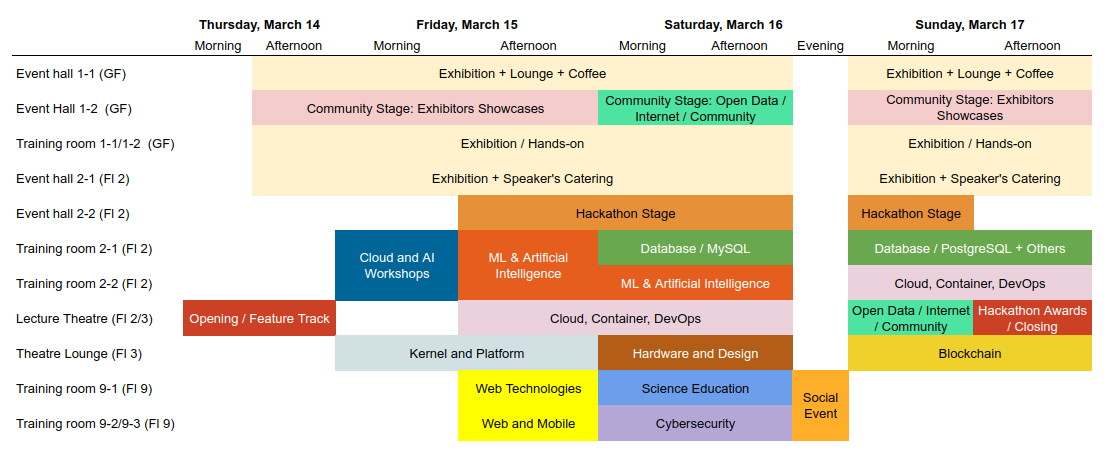
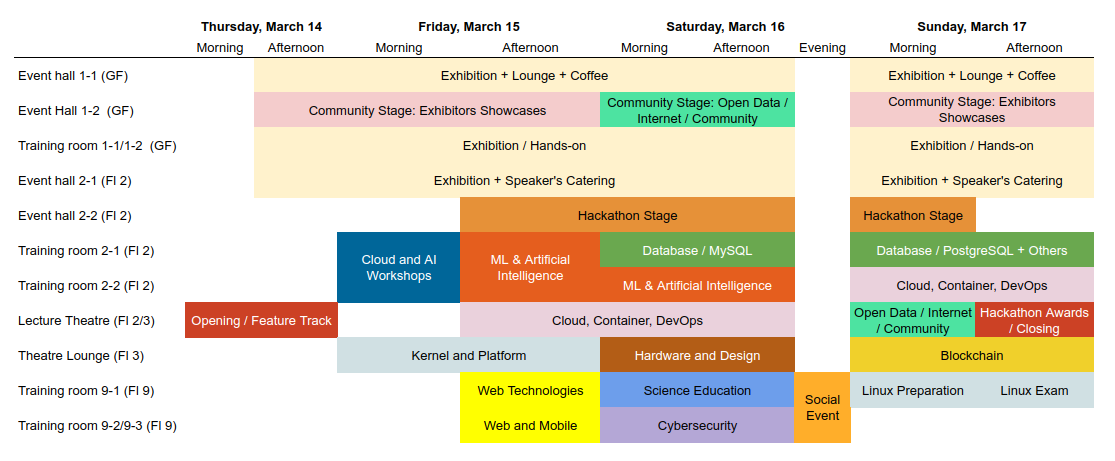
speakers

diff --git a/RoomVisual.html b/RoomVisual.html
@@ -1,7 +1,6 @@
 <meta http-equiv="Content-Type" content="text/html; charset=utf-8"><link type="text/css" rel="stylesheet" href="resources/sheet.css" >
-<style type="text/css">.ritz .waffle a { color: inherit; }.ritz .waffle .s10{background-color:#f4cccc;text-align:center;color:#000000;font-family:'Arial';font-size:10pt;vertical-align:bottom;white-space:normal;overflow:hidden;word-wrap:break-word;direction:ltr;padding:2px 3px 2px 3px;}.ritz .waffle .s14{background-color:#6aa84f;text-align:center;color:#ffffff;font-family:'Arial';font-size:10pt;vertical-align:middle;white-space:normal;overflow:hidden;word-wrap:break-word;direction:ltr;padding:2px 3px 2px 3px;}.ritz .waffle .s5{background-color:#ffffff;text-align:center;color:#000000;font-family:'Arial';font-size:10pt;vertical-align:middle;white-space:normal;overflow:hidden;word-wrap:break-word;direction:ltr;padding:2px 3px 2px 3px;}.ritz .waffle .s4{background-color:#ffffff;text-align:left;color:#000000;font-family:'Arial';font-size:10pt;vertical-align:middle;white-space:nowrap;direction:ltr;padding:2px 3px 2px 3px;}.ritz .waffle .s13{background-color:#e55e1e;text-align:center;color:#ffffff;font-family:'Arial';font-size:10pt;vertical-align:middle;white-space:normal;overflow:hidden;word-wrap:break-word;direction:ltr;padding:2px 3px 2px 3px;}.ritz .waffle .s7{background-color:#ffffff;text-align:left;color:#000000;font-family:'Arial';font-size:10pt;vertical-align:middle;white-space:normal;overflow:hidden;word-wrap:break-word;direction:ltr;padding:2px 3px 2px 3px;}.ritz .waffle .s9{background-color:#4de3a1;text-align:center;color:#000000;font-family:'Arial';font-size:10pt;vertical-align:middle;white-space:normal;overflow:hidden;word-wrap:break-word;direction:ltr;padding:2px 3px 2px 3px;}.ritz .waffle .s16{background-color:#cc4125;text-align:center;color:#ffffff;font-family:'Arial';font-size:10pt;vertical-align:middle;white-space:normal;overflow:hidden;word-wrap:break-word;direction:ltr;padding:2px 3px 2px 3px;}.ritz .waffle .s12{background-color:#6d9eeb;text-align:center;color:#000000;font-family:'Arial';font-size:10pt;vertical-align:middle;white-space:normal;overflow:hidden;word-wrap:break-word;direction:ltr;padding:2px 3px 2px 3px;}.ritz .waffle .s19{background-color:#b35d16;text-align:center;color:#ffffff;font-family:'Arial';font-size:10pt;vertical-align:middle;white-space:normal;overflow:hidden;word-wrap:break-word;direction:ltr;padding:2px 3px 2px 3px;}.ritz .waffle .s11{background-color:#e69138;text-align:center;color:#000000;font-family:'Arial';font-size:10pt;vertical-align:middle;white-space:normal;overflow:hidden;word-wrap:break-word;direction:ltr;padding:2px 3px 2px 3px;}.ritz .waffle .s15{background-color:#ead1dc;text-align:center;color:#000000;font-family:'Arial';font-size:10pt;vertical-align:middle;white-space:normal;overflow:hidden;word-wrap:break-word;direction:ltr;padding:2px 3px 2px 3px;}.ritz .waffle .s21{background-color:#ffff00;text-align:center;color:#000000;font-family:'Arial';font-size:10pt;vertical-align:middle;white-space:normal;overflow:hidden;word-wrap:break-word;direction:ltr;padding:2px 3px 2px 3px;}.ritz .waffle .s6{background-color:#fff2cc;text-align:center;color:#000000;font-family:'Arial';font-size:10pt;vertical-align:middle;white-space:normal;overflow:hidden;word-wrap:break-word;direction:ltr;padding:2px 3px 2px 3px;}.ritz .waffle .s24{background-color:#b4a7d6;text-align:center;color:#000000;font-family:'Arial';font-size:10pt;vertical-align:middle;white-space:normal;overflow:hidden;word-wrap:break-word;direction:ltr;padding:2px 3px 2px 3px;}.ritz .waffle .s20{background-color:#f0d02b;text-align:center;color:#000000;font-family:'Arial';font-size:10pt;vertical-align:middle;white-space:normal;overflow:hidden;word-wrap:break-word;direction:ltr;padding:2px 3px 2px 3px;}.ritz .waffle .s0{background-color:#ffffff;text-align:left;font-weight:bold;color:#000000;font-family:'Arial';font-size:10pt;vertical-align:middle;white-space:normal;overflow:hidden;word-wrap:break-word;direction:ltr;padding:2px 3px 2px 3px;}.ritz .waffle .s8{background-color:#f4cccc;text-align:center;color:#000000;font-family:'Arial';font-size:10pt;vertical-align:middle;white-space:normal;overflow:hidden;word-wrap:break-word;direction:ltr;padding:2px 3px 2px 3px;}.ritz .waffle .s17{background-color:#ffffff;text-align:center;color:#ffffff;font-family:'Arial';font-size:10pt;vertical-align:middle;white-space:normal;overflow:hidden;word-wrap:break-word;direction:ltr;padding:2px 3px 2px 3px;}.ritz .waffle .s3{border-bottom:1px SOLID #000000;background-color:#ffffff;text-align:center;color:#000000;font-family:'Arial';font-size:10pt;vertical-align:middle;white-space:normal;overflow:hidden;word-wrap:break-word;direction:ltr;padding:2px 3px 2px 3px;}.ritz .waffle .s2{border-bottom:1px SOLID #000000;background-color:#ffffff;text-align:left;color:#000000;font-family:'Arial';font-size:10pt;vertical-align:middle;white-space:normal;overflow:hidden;word-wrap:break-word;direction:ltr;padding:2px 3px 2px 3px;}.ritz .waffle .s18{background-color:#d0e0e3;text-align:center;color:#000000;font-family:'Arial';font-size:10pt;vertical-align:middle;white-space:normal;overflow:hidden;word-wrap:break-word;direction:ltr;padding:2px 3px 2px 3px;}.ritz .waffle .s1{background-color:#ffffff;text-align:center;font-weight:bold;color:#000000;font-family:'Arial';font-size:10pt;vertical-align:middle;white-space:normal;overflow:hidden;word-wrap:break-word;direction:ltr;padding:2px 3px 2px 3px;}.ritz .waffle .s22{background-color:#6d9eeb;text-align:center;color:#000000;font-family:'Arial';font-size:10pt;vertical-align:middle;white-space:nowrap;direction:ltr;padding:2px 3px 2px 3px;}.ritz .waffle .s23{background-color:#ffae2a;text-align:center;color:#000000;font-family:'Arial';font-size:10pt;vertical-align:middle;white-space:normal;overflow:hidden;word-wrap:break-word;direction:ltr;padding:2px 3px 2px 3px;}</style><div class="ritz grid-container" dir="ltr"><table class="waffle no-grid" cellspacing="0" cellpadding="0"><thead>
-</thead><tbody><tr style='height:20px;'><th id="1188452059R0" style="height: 20px;" class="row-headers-background"><div class="row-header-wrapper" style="line-height: 20px;">1</div></th><td class="s0" dir="ltr"></td><td class="s1" dir="ltr" colspan="2">Thursday, March 14</td><td class="s1" dir="ltr" colspan="2">Friday, March 15</td><td class="s1" dir="ltr" colspan="3">Saturday, March 16</td><td class="s1" dir="ltr" colspan="2">Sunday, March 17</td></tr><tr style='height:20px;'><th id="1188452059R1" style="height: 20px;" class="row-headers-background"><div class="row-header-wrapper" style="line-height: 20px;">2</div></th><td class="s2" dir="ltr"></td><td class="s3" dir="ltr">Morning</td><td class="s3" dir="ltr">Afternoon</td><td class="s3" dir="ltr">Morning</td><td class="s3" dir="ltr">Afternoon</td><td class="s3" dir="ltr">Morning</td><td class="s3" dir="ltr">Afternoon</td><td class="s3" dir="ltr">Evening</td><td class="s3" dir="ltr">Morning</td><td class="s3" dir="ltr">Afternoon</td></tr><tr style='height:34px;'><th id="1188452059R2" style="height: 34px;" class="row-headers-background"><div class="row-header-wrapper" style="line-height: 34px;">3</div></th><td class="s4" dir="ltr">Event hall 1-1 (GF)</td><td class="s5" dir="ltr"></td><td class="s6" dir="ltr" colspan="5">Exhibition + Lounge + Coffee</td><td class="s5" dir="ltr"></td><td class="s6" dir="ltr" colspan="2">Exhibition + Lounge + Coffee</td></tr><tr style='height:34px;'><th id="1188452059R3" style="height: 34px;" class="row-headers-background"><div class="row-header-wrapper" style="line-height: 34px;">4</div></th><td class="s7" dir="ltr">Event Hall 1-2  (GF)</td><td class="s5" dir="ltr"></td><td class="s8" dir="ltr" colspan="3">Community Stage: Exhibitors Showcases</td><td class="s9" dir="ltr" colspan="2">Community Stage: Open Data / Internet / Community</td><td class="s5" dir="ltr"></td><td class="s10" colspan="2">Community Stage: Exhibitors Showcases</td></tr><tr style='height:34px;'><th id="1188452059R4" style="height: 34px;" class="row-headers-background"><div class="row-header-wrapper" style="line-height: 34px;">5</div></th><td class="s7" dir="ltr">Training room 1-1/1-2  (GF)</td><td class="s4"></td><td class="s6" dir="ltr" colspan="5">Exhibition / Hands-on</td><td class="s5" dir="ltr"></td><td class="s6" dir="ltr" colspan="2">Exhibition / Hands-on</td></tr><tr style='height:34px;'><th id="1188452059R5" style="height: 34px;" class="row-headers-background"><div class="row-header-wrapper" style="line-height: 34px;">6</div></th><td class="s7" dir="ltr">Event hall 2-1 (Fl 2)</td><td class="s4"></td><td class="s6" dir="ltr" colspan="5">Exhibition + Speaker&#39;s Catering</td><td class="s5" dir="ltr"></td><td class="s6" dir="ltr" colspan="2">Exhibition + Speaker&#39;s Catering</td></tr><tr style='height:34px;'><th id="1188452059R6" style="height: 34px;" class="row-headers-background"><div class="row-header-wrapper" style="line-height: 34px;">7</div></th><td class="s7" dir="ltr">Event hall 2-2 (Fl 2)</td><td class="s4"></td><td class="s5" dir="ltr"></td><td class="s5" dir="ltr"></td><td class="s11" dir="ltr" colspan="3">Hackathon Stage</td><td class="s5" dir="ltr"></td><td class="s11" dir="ltr">Hackathon Stage</td><td class="s4"></td></tr><tr style='height:34px;'><th id="1188452059R7" style="height: 34px;" class="row-headers-background"><div class="row-header-wrapper" style="line-height: 34px;">8</div></th><td class="s7" dir="ltr">Training room 2-1 (Fl 2)</td><td class="s5"></td><td class="s5"></td><td class="s12" dir="ltr" rowspan="2">Cloud and AI Workshops</td><td class="s13" dir="ltr" rowspan="2">ML &amp; Artificial Intelligence</td><td class="s14" colspan="2">Database / MySQL</td><td class="s5" dir="ltr"></td><td class="s14" dir="ltr" colspan="2">Database / PostgreSQL + Others</td></tr><tr style='height:34px;'><th id="1188452059R8" style="height: 34px;" class="row-headers-background"><div class="row-header-wrapper" style="line-height: 34px;">9</div></th><td class="s7" dir="ltr">Training room 2-2 (Fl 2)</td><td class="s5"></td><td class="s5"></td><td class="s13" dir="ltr" colspan="2">ML &amp; Artificial Intelligence - Workshops</td><td class="s5" dir="ltr"></td><td class="s15" colspan="2">Cloud, Container, DevOps</td></tr><tr style='height:34px;'><th id="1188452059R9" style="height: 34px;" class="row-headers-background"><div class="row-header-wrapper" style="line-height: 34px;">10</div></th><td class="s7" dir="ltr">Lecture Theatre (Fl 2/3)</td><td class="s16" dir="ltr" colspan="2">Opening / Feature Track</td><td class="s5" dir="ltr"></td><td class="s15" colspan="3">Cloud, Container, DevOps</td><td class="s17" dir="ltr"></td><td class="s9" dir="ltr">Open Data / Internet / Community</td><td class="s16" dir="ltr">Hackathon Awards / Closing</td></tr><tr style='height:34px;'><th id="1188452059R10" style="height: 34px;" class="row-headers-background"><div class="row-header-wrapper" style="line-height: 34px;">11</div></th><td class="s7" dir="ltr">Theatre Lounge (Fl 3)</td><td class="s5"></td><td class="s5"></td><td class="s18" colspan="2">Kernel and Platform</td><td class="s19" dir="ltr" colspan="2">Hardware and Design</td><td class="s5"></td><td class="s20" dir="ltr" colspan="2">Blockchain</td></tr><tr style='height:34px;'><th id="1188452059R11" style="height: 34px;" class="row-headers-background"><div class="row-header-wrapper" style="line-height: 34px;">12</div></th><td class="s7" dir="ltr">Training room 9-1 (Fl 9)</td><td class="s5"></td><td class="s5"></td><td class="s4"></td><td class="s21">Web and Mobile</td><td class="s22" dir="ltr" colspan="2">Science Education</td><td class="s23" dir="ltr" rowspan="2">Social Event</td><td class="s4"></td><td class="s5"></td></tr><tr style='height:34px;'><th id="1188452059R12" style="height: 34px;" class="row-headers-background"><div class="row-header-wrapper" style="line-height: 34px;">13</div></th><td class="s7" dir="ltr">Training room 9-2/9-3 (Fl 9)</td><td class="s5"></td><td class="s5"></td><td class="s5"></td><td class="s21">Web and Mobile</td><td class="s24" colspan="2">Cybersecurity</td><td class="s4"></td><td class="s4"></td></tr></tbody></table></div>
-<script type='text/javascript' nonce='9uH8k8z4iOCtXarD0G72aQ'>
+<style type="text/css">.ritz .waffle a { color: inherit; }.ritz .waffle .s10{background-color:#f4cccc;text-align:center;color:#000000;font-family:'Arial';font-size:10pt;vertical-align:bottom;white-space:normal;overflow:hidden;word-wrap:break-word;direction:ltr;padding:2px 3px 2px 3px;}.ritz .waffle .s14{background-color:#6aa84f;text-align:center;color:#ffffff;font-family:'Arial';font-size:10pt;vertical-align:middle;white-space:normal;overflow:hidden;word-wrap:break-word;direction:ltr;padding:2px 3px 2px 3px;}.ritz .waffle .s6{background-color:#ffffff;text-align:center;color:#000000;font-family:'Arial';font-size:10pt;vertical-align:middle;white-space:normal;overflow:hidden;word-wrap:break-word;direction:ltr;padding:2px 3px 2px 3px;}.ritz .waffle .s5{background-color:#ffffff;text-align:left;color:#000000;font-family:'Arial';font-size:10pt;vertical-align:middle;white-space:nowrap;direction:ltr;padding:2px 3px 2px 3px;}.ritz .waffle .s13{background-color:#e55e1e;text-align:center;color:#ffffff;font-family:'Arial';font-size:10pt;vertical-align:middle;white-space:normal;overflow:hidden;word-wrap:break-word;direction:ltr;padding:2px 3px 2px 3px;}.ritz .waffle .s2{background-color:#ffffff;text-align:left;color:#000000;font-family:'Arial';font-size:10pt;vertical-align:middle;white-space:normal;overflow:hidden;word-wrap:break-word;direction:ltr;padding:2px 3px 2px 3px;}.ritz .waffle .s9{background-color:#4de3a1;text-align:center;color:#000000;font-family:'Arial';font-size:10pt;vertical-align:middle;white-space:normal;overflow:hidden;word-wrap:break-word;direction:ltr;padding:2px 3px 2px 3px;}.ritz .waffle .s16{background-color:#cc4125;text-align:center;color:#ffffff;font-family:'Arial';font-size:10pt;vertical-align:middle;white-space:normal;overflow:hidden;word-wrap:break-word;direction:ltr;padding:2px 3px 2px 3px;}.ritz .waffle .s24{background-color:#d0e0e3;text-align:center;color:#000000;font-family:'Arial';font-size:10pt;vertical-align:middle;white-space:nowrap;direction:ltr;padding:2px 3px 2px 3px;}.ritz .waffle .s19{background-color:#b35d16;text-align:center;color:#ffffff;font-family:'Arial';font-size:10pt;vertical-align:middle;white-space:normal;overflow:hidden;word-wrap:break-word;direction:ltr;padding:2px 3px 2px 3px;}.ritz .waffle .s11{background-color:#e69138;text-align:center;color:#000000;font-family:'Arial';font-size:10pt;vertical-align:middle;white-space:normal;overflow:hidden;word-wrap:break-word;direction:ltr;padding:2px 3px 2px 3px;}.ritz .waffle .s15{background-color:#ead1dc;text-align:center;color:#000000;font-family:'Arial';font-size:10pt;vertical-align:middle;white-space:normal;overflow:hidden;word-wrap:break-word;direction:ltr;padding:2px 3px 2px 3px;}.ritz .waffle .s21{background-color:#ffff00;text-align:center;color:#000000;font-family:'Arial';font-size:10pt;vertical-align:middle;white-space:normal;overflow:hidden;word-wrap:break-word;direction:ltr;padding:2px 3px 2px 3px;}.ritz .waffle .s7{background-color:#fff2cc;text-align:center;color:#000000;font-family:'Arial';font-size:10pt;vertical-align:middle;white-space:normal;overflow:hidden;word-wrap:break-word;direction:ltr;padding:2px 3px 2px 3px;}.ritz .waffle .s25{background-color:#b4a7d6;text-align:center;color:#000000;font-family:'Arial';font-size:10pt;vertical-align:middle;white-space:normal;overflow:hidden;word-wrap:break-word;direction:ltr;padding:2px 3px 2px 3px;}.ritz .waffle .s12{background-color:#006699;text-align:center;color:#ffffff;font-family:'Arial';font-size:10pt;vertical-align:middle;white-space:normal;overflow:hidden;word-wrap:break-word;direction:ltr;padding:2px 3px 2px 3px;}.ritz .waffle .s20{background-color:#f0d02b;text-align:center;color:#000000;font-family:'Arial';font-size:10pt;vertical-align:middle;white-space:normal;overflow:hidden;word-wrap:break-word;direction:ltr;padding:2px 3px 2px 3px;}.ritz .waffle .s0{background-color:#ffffff;text-align:left;font-weight:bold;color:#000000;font-family:'Arial';font-size:10pt;vertical-align:middle;white-space:normal;overflow:hidden;word-wrap:break-word;direction:ltr;padding:2px 3px 2px 3px;}.ritz .waffle .s8{background-color:#f4cccc;text-align:center;color:#000000;font-family:'Arial';font-size:10pt;vertical-align:middle;white-space:normal;overflow:hidden;word-wrap:break-word;direction:ltr;padding:2px 3px 2px 3px;}.ritz .waffle .s17{background-color:#ffffff;text-align:center;color:#ffffff;font-family:'Arial';font-size:10pt;vertical-align:middle;white-space:normal;overflow:hidden;word-wrap:break-word;direction:ltr;padding:2px 3px 2px 3px;}.ritz .waffle .s4{border-bottom:1px SOLID #000000;background-color:#ffffff;text-align:center;color:#000000;font-family:'Arial';font-size:10pt;vertical-align:middle;white-space:normal;overflow:hidden;word-wrap:break-word;direction:ltr;padding:2px 3px 2px 3px;}.ritz .waffle .s3{border-bottom:1px SOLID #000000;background-color:#ffffff;text-align:left;color:#000000;font-family:'Arial';font-size:10pt;vertical-align:middle;white-space:normal;overflow:hidden;word-wrap:break-word;direction:ltr;padding:2px 3px 2px 3px;}.ritz .waffle .s18{background-color:#d0e0e3;text-align:center;color:#000000;font-family:'Arial';font-size:10pt;vertical-align:middle;white-space:normal;overflow:hidden;word-wrap:break-word;direction:ltr;padding:2px 3px 2px 3px;}.ritz .waffle .s1{background-color:#ffffff;text-align:center;font-weight:bold;color:#000000;font-family:'Arial';font-size:10pt;vertical-align:middle;white-space:normal;overflow:hidden;word-wrap:break-word;direction:ltr;padding:2px 3px 2px 3px;}.ritz .waffle .s22{background-color:#6d9eeb;text-align:center;color:#000000;font-family:'Arial';font-size:10pt;vertical-align:middle;white-space:nowrap;direction:ltr;padding:2px 3px 2px 3px;}.ritz .waffle .s23{background-color:#ffae2a;text-align:center;color:#000000;font-family:'Arial';font-size:10pt;vertical-align:middle;white-space:normal;overflow:hidden;word-wrap:break-word;direction:ltr;padding:2px 3px 2px 3px;}</style><div class="ritz grid-container" dir="ltr"><table class="waffle no-grid" cellspacing="0" cellpadding="0"><thead><tr><th class="row-header freezebar-origin-ltr"></th><th id="1188452059C0" style="width:32px" class="column-headers-background">A</th><th id="1188452059C1" style="width:170px" class="column-headers-background">B</th><th id="1188452059C2" style="width:68px" class="column-headers-background">C</th><th id="1188452059C3" style="width:82px" class="column-headers-background">D</th><th id="1188452059C4" style="width:122px" class="column-headers-background">E</th><th id="1188452059C5" style="width:139px" class="column-headers-background">F</th><th id="1188452059C6" style="width:87px" class="column-headers-background">G</th><th id="1188452059C7" style="width:105px" class="column-headers-background">H</th><th id="1188452059C8" style="width:55px" class="column-headers-background">I</th><th id="1188452059C9" style="width:124px" class="column-headers-background">J</th><th id="1188452059C10" style="width:117px" class="column-headers-background">K</th></tr></thead><tbody><tr style='height:20px;'><th id="1188452059R0" style="height: 20px;" class="row-headers-background"><div class="row-header-wrapper" style="line-height: 20px;">1</div></th><td class="s0" dir="ltr"></td><td class="s0" dir="ltr"></td><td class="s1" dir="ltr"></td><td class="s1" dir="ltr"></td><td class="s1" dir="ltr"></td><td class="s1" dir="ltr"></td><td class="s1" dir="ltr"></td><td class="s1" dir="ltr"></td><td class="s1" dir="ltr"></td><td class="s1" dir="ltr"></td><td class="s1" dir="ltr"></td></tr><tr style='height:20px;'><th id="1188452059R1" style="height: 20px;" class="row-headers-background"><div class="row-header-wrapper" style="line-height: 20px;">2</div></th><td class="s0" dir="ltr"></td><td class="s0" dir="ltr"></td><td class="s1" dir="ltr" colspan="2">Thursday, March 14</td><td class="s1" dir="ltr" colspan="2">Friday, March 15</td><td class="s1" dir="ltr" colspan="3">Saturday, March 16</td><td class="s1" dir="ltr" colspan="2">Sunday, March 17</td></tr><tr style='height:20px;'><th id="1188452059R2" style="height: 20px;" class="row-headers-background"><div class="row-header-wrapper" style="line-height: 20px;">3</div></th><td class="s2" dir="ltr"></td><td class="s3" dir="ltr"></td><td class="s4" dir="ltr">Morning</td><td class="s4" dir="ltr">Afternoon</td><td class="s4" dir="ltr">Morning</td><td class="s4" dir="ltr">Afternoon</td><td class="s4" dir="ltr">Morning</td><td class="s4" dir="ltr">Afternoon</td><td class="s4" dir="ltr">Evening</td><td class="s4" dir="ltr">Morning</td><td class="s4" dir="ltr">Afternoon</td></tr><tr style='height:34px;'><th id="1188452059R3" style="height: 34px;" class="row-headers-background"><div class="row-header-wrapper" style="line-height: 34px;">4</div></th><td class="s5" dir="ltr"></td><td class="s5" dir="ltr">Event hall 1-1 (GF)</td><td class="s6" dir="ltr"></td><td class="s7" dir="ltr" colspan="5">Exhibition + Lounge + Coffee</td><td class="s6" dir="ltr"></td><td class="s7" dir="ltr" colspan="2">Exhibition + Lounge + Coffee</td></tr><tr style='height:34px;'><th id="1188452059R4" style="height: 34px;" class="row-headers-background"><div class="row-header-wrapper" style="line-height: 34px;">5</div></th><td class="s2" dir="ltr"></td><td class="s2" dir="ltr">Event Hall 1-2  (GF)</td><td class="s6" dir="ltr"></td><td class="s8" dir="ltr" colspan="3">Community Stage: Exhibitors Showcases</td><td class="s9" dir="ltr" colspan="2">Community Stage: Open Data / Internet / Community</td><td class="s6" dir="ltr"></td><td class="s10" colspan="2">Community Stage: Exhibitors Showcases</td></tr><tr style='height:34px;'><th id="1188452059R5" style="height: 34px;" class="row-headers-background"><div class="row-header-wrapper" style="line-height: 34px;">6</div></th><td class="s2" dir="ltr"></td><td class="s2" dir="ltr">Training room 1-1/1-2  (GF)</td><td class="s5"></td><td class="s7" dir="ltr" colspan="5">Exhibition / Hands-on</td><td class="s6" dir="ltr"></td><td class="s7" dir="ltr" colspan="2">Exhibition / Hands-on</td></tr><tr style='height:34px;'><th id="1188452059R6" style="height: 34px;" class="row-headers-background"><div class="row-header-wrapper" style="line-height: 34px;">7</div></th><td class="s2" dir="ltr"></td><td class="s2" dir="ltr">Event hall 2-1 (Fl 2)</td><td class="s5"></td><td class="s7" dir="ltr" colspan="5">Exhibition + Speaker&#39;s Catering</td><td class="s6" dir="ltr"></td><td class="s7" dir="ltr" colspan="2">Exhibition + Speaker&#39;s Catering</td></tr><tr style='height:34px;'><th id="1188452059R7" style="height: 34px;" class="row-headers-background"><div class="row-header-wrapper" style="line-height: 34px;">8</div></th><td class="s2" dir="ltr"></td><td class="s2" dir="ltr">Event hall 2-2 (Fl 2)</td><td class="s5"></td><td class="s6" dir="ltr"></td><td class="s6" dir="ltr"></td><td class="s11" dir="ltr" colspan="3">Hackathon Stage</td><td class="s6" dir="ltr"></td><td class="s11" dir="ltr">Hackathon Stage</td><td class="s5"></td></tr><tr style='height:34px;'><th id="1188452059R8" style="height: 34px;" class="row-headers-background"><div class="row-header-wrapper" style="line-height: 34px;">9</div></th><td class="s2" dir="ltr"></td><td class="s2" dir="ltr">Training room 2-1 (Fl 2)</td><td class="s6"></td><td class="s6"></td><td class="s12" dir="ltr" rowspan="2">Cloud and AI Workshops</td><td class="s13" dir="ltr" rowspan="2">ML &amp; Artificial Intelligence</td><td class="s14" colspan="2">Database / MySQL</td><td class="s6" dir="ltr"></td><td class="s14" dir="ltr" colspan="2">Database / PostgreSQL + Others</td></tr><tr style='height:34px;'><th id="1188452059R9" style="height: 34px;" class="row-headers-background"><div class="row-header-wrapper" style="line-height: 34px;">10</div></th><td class="s2" dir="ltr"></td><td class="s2" dir="ltr">Training room 2-2 (Fl 2)</td><td class="s6"></td><td class="s6"></td><td class="s13" dir="ltr" colspan="2">ML &amp; Artificial Intelligence</td><td class="s6" dir="ltr"></td><td class="s15" colspan="2">Cloud, Container, DevOps</td></tr><tr style='height:34px;'><th id="1188452059R10" style="height: 34px;" class="row-headers-background"><div class="row-header-wrapper" style="line-height: 34px;">11</div></th><td class="s2" dir="ltr"></td><td class="s2" dir="ltr">Lecture Theatre (Fl 2/3)</td><td class="s16" dir="ltr" colspan="2">Opening / Feature Track</td><td class="s6" dir="ltr"></td><td class="s15" colspan="3">Cloud, Container, DevOps</td><td class="s17" dir="ltr"></td><td class="s9" dir="ltr">Open Data / Internet / Community</td><td class="s16" dir="ltr">Hackathon Awards / Closing</td></tr><tr style='height:34px;'><th id="1188452059R11" style="height: 34px;" class="row-headers-background"><div class="row-header-wrapper" style="line-height: 34px;">12</div></th><td class="s2" dir="ltr"></td><td class="s2" dir="ltr">Theatre Lounge (Fl 3)</td><td class="s6"></td><td class="s6"></td><td class="s18" colspan="2">Kernel and Platform</td><td class="s19" dir="ltr" colspan="2">Hardware and Design</td><td class="s6"></td><td class="s20" dir="ltr" colspan="2">Blockchain</td></tr><tr style='height:34px;'><th id="1188452059R12" style="height: 34px;" class="row-headers-background"><div class="row-header-wrapper" style="line-height: 34px;">13</div></th><td class="s2" dir="ltr"></td><td class="s2" dir="ltr">Training room 9-1 (Fl 9)</td><td class="s6"></td><td class="s6"></td><td class="s5"></td><td class="s21" dir="ltr">Web Technologies</td><td class="s22" dir="ltr" colspan="2">Science Education</td><td class="s23" dir="ltr" rowspan="2">Social Event</td><td class="s24" dir="ltr">Linux Preparation</td><td class="s18" dir="ltr">Linux Exam</td></tr><tr style='height:34px;'><th id="1188452059R13" style="height: 34px;" class="row-headers-background"><div class="row-header-wrapper" style="line-height: 34px;">14</div></th><td class="s2" dir="ltr"></td><td class="s2" dir="ltr">Training room 9-2/9-3 (Fl 9)</td><td class="s6"></td><td class="s6"></td><td class="s6"></td><td class="s21">Web and Mobile</td><td class="s25" colspan="2">Cybersecurity</td><td class="s5"></td><td class="s5"></td></tr></tbody></table></div>
+<script type='text/javascript' nonce='vGQHf3AYUfDbJXmkd14kAg'>
 function posObj(sheet, id, row, col, x, y) {
   var rtl = false;
   var sheetElement = document.getElementById(sheet);
